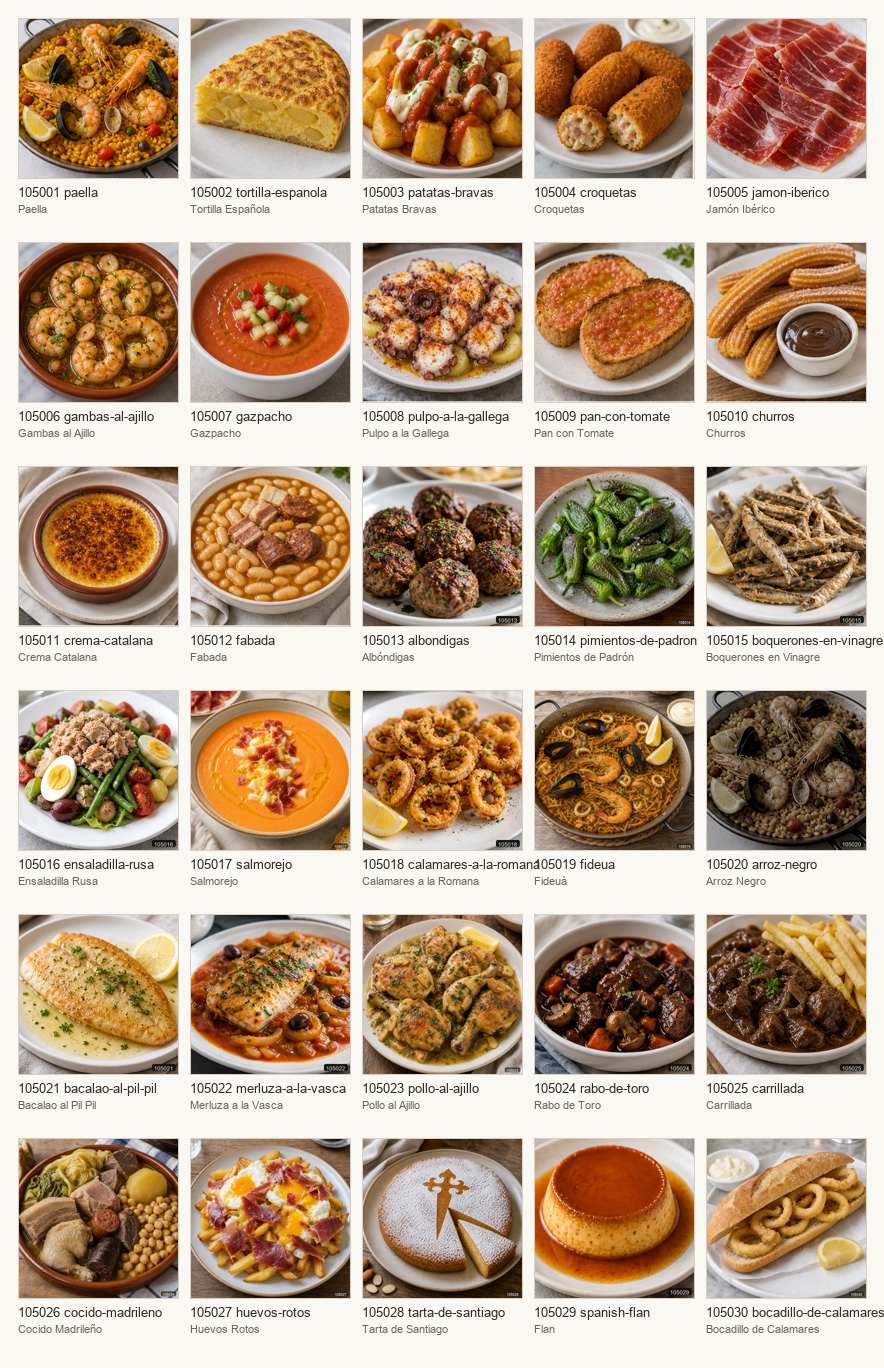
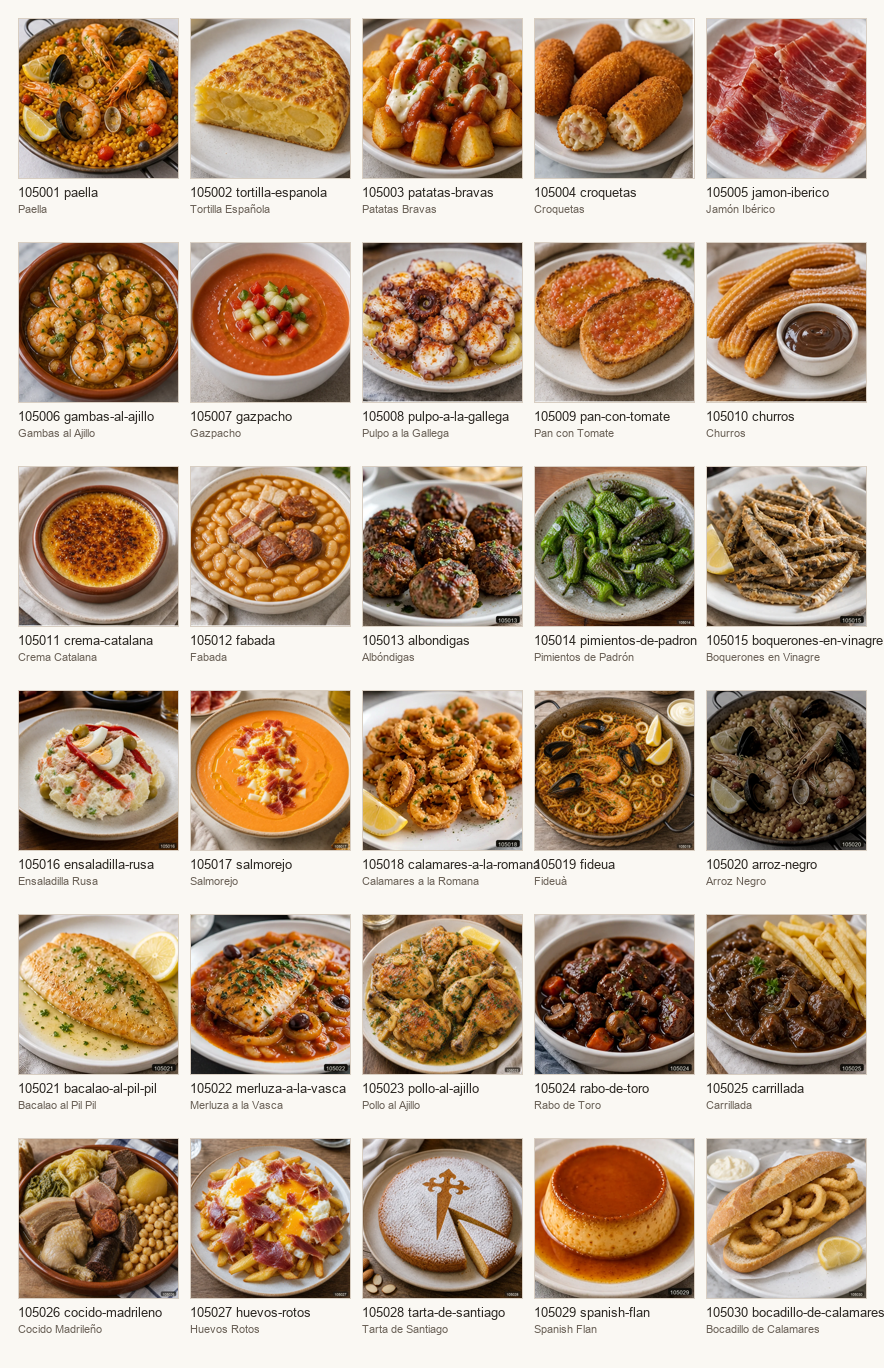
Replace Ensaladilla Rusa verified image

Changed region(s): [[0.0, 0.4912, 0.2138, 0.6447], [0.6109, 0.9518, 0.6414, 0.9825]]

diff --git a/data/internal/audit/image-overviews/batch-018.html b/data/internal/audit/image-overviews/batch-018.html
@@ -147,12 +147,12 @@
     <span>keep-verified | world-dishes.js</span>
   </figcaption>
 </figure>
-<figure class="card rebuild">
+<figure class="card keep-verified">
   <img src="../../../../assets/dishes/main/105016-ensaladilla-rusa.webp" loading="lazy" alt="ensaladilla-rusa">
   <figcaption>
     <strong>105016 ensaladilla-rusa</strong>
     <span>Ensaladilla Rusa</span>
-    <span>rebuild | world-dishes.js</span>
+    <span>keep-verified | world-dishes.js</span>
   </figcaption>
 </figure>
 <figure class="card keep-verified">

diff --git a/data/internal/index.js b/data/internal/index.js
@@ -266,6 +266,7 @@ const auditedGeneratedDishIds = new Set([
   "albondigas",
   "pimientos-de-padron",
   "boquerones-en-vinagre",
+  "ensaladilla-rusa",
   "salmorejo",
   "calamares-a-la-romana",
   "fideua",

diff --git a/DISHKAI_DISH_LIST.md b/DISHKAI_DISH_LIST.md
@@ -2,8 +2,8 @@
 
 Generated from data/internal/index.js after the verified database quarantine audit.
 
-- Total verified dishes: 588
-- Total aliases: 1830
+- Total verified dishes: 589
+- Total aliases: 1834
 - Total cuisines: 27
 - Generated layers remain quarantined except for rows restored through a documented human audit batch.
 
@@ -567,7 +567,7 @@ Generated from data/internal/index.js after the verified database quarantine aud
 30. 128028 - `riskrem` - Riskrem / 挪威奶油米布丁 / Riskrem
 31. 128029 - `aebleskiver` - Aebleskiver / 丹麦圆球小煎饼 / Æbleskiver
 
-## Spanish (spanish) - 29
+## Spanish (spanish) - 30
 
 1. 105001 - `paella` - Paella / 西班牙海鲜饭 / Paella
 2. 105002 - `tortilla-espanola` - Tortilla Española / 西班牙土豆蛋饼 / Tortilla española
@@ -584,20 +584,21 @@ Generated from data/internal/index.js after the verified database quarantine aud
 13. 105013 - `albondigas` - Albóndigas / 西班牙肉丸 / Albóndigas
 14. 105014 - `pimientos-de-padron` - Pimientos de Padrón / 帕德龙小青椒 / Pimientos de Padrón
 15. 105015 - `boquerones-en-vinagre` - Boquerones en Vinagre / 醋渍凤尾鱼 / Boquerones en vinagre
-16. 105017 - `salmorejo` - Salmorejo / 安达卢西亚浓番茄冷汤 / Salmorejo
-17. 105018 - `calamares-a-la-romana` - Calamares a la Romana / 西班牙炸鱿鱼圈 / Calamares a la romana
-18. 105019 - `fideua` - Fideuà / 西班牙海鲜短面 / Fideuà
-19. 105020 - `arroz-negro` - Arroz Negro / 西班牙墨鱼汁黑饭 / Arroz negro
-20. 105021 - `bacalao-al-pil-pil` - Bacalao al Pil Pil / 盐鳕鱼橄榄油乳化酱 / Bacalao al pil pil
-21. 105022 - `merluza-a-la-vasca` - Merluza a la Vasca / 巴斯克绿酱无须鳕 / Merluza a la vasca
-22. 105023 - `pollo-al-ajillo` - Pollo al Ajillo / 西班牙蒜香鸡 / Pollo al ajillo
-23. 105024 - `rabo-de-toro` - Rabo de Toro / 西班牙炖牛尾 / Rabo de toro
-24. 105025 - `carrillada` - Carrillada / 西班牙炖猪颊肉 / Carrillada
-25. 105026 - `cocido-madrileno` - Cocido Madrileño / 马德里鹰嘴豆炖肉 / Cocido madrileño
-26. 105027 - `huevos-rotos` - Huevos Rotos / 碎蛋薯条火腿 / Huevos rotos
-27. 105028 - `tarta-de-santiago` - Tarta de Santiago / 圣地亚哥杏仁蛋糕 / Tarta de Santiago
-28. 105029 - `spanish-flan` - Flan / 西班牙焦糖布丁 / Flan
-29. 105030 - `bocadillo-de-calamares` - Bocadillo de Calamares / 炸鱿鱼圈长棍三明治 / Bocadillo de calamares
+16. 105016 - `ensaladilla-rusa` - Ensaladilla Rusa / 西班牙俄式土豆沙拉 / Ensaladilla rusa
+17. 105017 - `salmorejo` - Salmorejo / 安达卢西亚浓番茄冷汤 / Salmorejo
+18. 105018 - `calamares-a-la-romana` - Calamares a la Romana / 西班牙炸鱿鱼圈 / Calamares a la romana
+19. 105019 - `fideua` - Fideuà / 西班牙海鲜短面 / Fideuà
+20. 105020 - `arroz-negro` - Arroz Negro / 西班牙墨鱼汁黑饭 / Arroz negro
+21. 105021 - `bacalao-al-pil-pil` - Bacalao al Pil Pil / 盐鳕鱼橄榄油乳化酱 / Bacalao al pil pil
+22. 105022 - `merluza-a-la-vasca` - Merluza a la Vasca / 巴斯克绿酱无须鳕 / Merluza a la vasca
+23. 105023 - `pollo-al-ajillo` - Pollo al Ajillo / 西班牙蒜香鸡 / Pollo al ajillo
+24. 105024 - `rabo-de-toro` - Rabo de Toro / 西班牙炖牛尾 / Rabo de toro
+25. 105025 - `carrillada` - Carrillada / 西班牙炖猪颊肉 / Carrillada
+26. 105026 - `cocido-madrileno` - Cocido Madrileño / 马德里鹰嘴豆炖肉 / Cocido madrileño
+27. 105027 - `huevos-rotos` - Huevos Rotos / 碎蛋薯条火腿 / Huevos rotos
+28. 105028 - `tarta-de-santiago` - Tarta de Santiago / 圣地亚哥杏仁蛋糕 / Tarta de Santiago
+29. 105029 - `spanish-flan` - Flan / 西班牙焦糖布丁 / Flan
+30. 105030 - `bocadillo-de-calamares` - Bocadillo de Calamares / 炸鱿鱼圈长棍三明治 / Bocadillo de calamares
 
 ## Surinamese (surinamese) - 11
 

diff --git a/DISHKAI_FULL_AUDIT_REPORT.md b/DISHKAI_FULL_AUDIT_REPORT.md
@@ -5,23 +5,23 @@ Generated: 2026-06-20
 ## Executive summary
 
 - Raw dish records reviewed from source files: 1110
-- Current verified export after quarantine: 588 dishes, 1830 aliases
-- Generated high-risk dishes quarantined from verified export: 496
-- Verified export rows with automated keep-verified status: 588
+- Current verified export after quarantine: 589 dishes, 1834 aliases
+- Generated high-risk dishes quarantined from verified export: 495
+- Verified export rows with automated keep-verified status: 589
 - Verified export rows requiring metadata/image follow-up: 0
 
 The audit found systemic template language, low confidence values, repeated compositions, and placeholder localized text in the generated expansion layers. Those layers remain quarantined from `metadata.dishes` and `metadata.dishAliases` except for rows restored through documented review batches of at most 30 dishes.
 
 ## Status counts
 
-- keep-verified: 588
-- rebuild: 496
+- keep-verified: 589
+- rebuild: 495
 - remove: 26
 
 ## Risk counts
 
-- high: 522
-- low: 588
+- high: 521
+- low: 589
 
 ## Source counts
 
@@ -43,20 +43,20 @@ The audit found systemic template language, low confidence values, repeated comp
 
 ## Image asset check
 
-- quarantinedOrUnreferencedMainAssets: 522
-- quarantinedOrUnreferencedThumbAssets: 522
+- quarantinedOrUnreferencedMainAssets: 521
+- quarantinedOrUnreferencedThumbAssets: 521
 - totalMainAssets: 1110
 - totalThumbAssets: 1110
-- verifiedMainAssetsReferenced: 588
-- verifiedThumbAssetsReferenced: 588
+- verifiedMainAssetsReferenced: 589
+- verifiedThumbAssetsReferenced: 589
 
 Quarantined/unreferenced assets were intentionally left in place. They are not deleted because they may be reused only after semantic image review and metadata rebuild.
 
 ## Alias audit summary
 
 - Raw aliases reviewed: 3083
-- Aliases in verified export: 1830
-- Alias rows flagged for review: 1117
+- Aliases in verified export: 1834
+- Alias rows flagged for review: 1113
 
 | alias | dishId | sourceFile | confidence | status | notes |
 | --- | --- | --- | --- | --- | --- |
@@ -920,7 +920,7 @@ Each overview page contains at most 30 dishes and uses small thumbnails from the
 | albondigas | 105013 | spanish | data/internal/dishes/world-dishes.js | /assets/dishes/main/105013-albondigas.webp | low | keep-verified | No automated metadata/asset flags. Visual semantics still need human spot-check. | retain in verified export; schedule visual spot-check |
 | pimientos-de-padron | 105014 | spanish | data/internal/dishes/world-dishes.js | /assets/dishes/main/105014-pimientos-de-padron.webp | low | keep-verified | No automated metadata/asset flags. Visual semantics still need human spot-check. | retain in verified export; schedule visual spot-check |
 | boquerones-en-vinagre | 105015 | spanish | data/internal/dishes/world-dishes.js | /assets/dishes/main/105015-boquerones-en-vinagre.webp | low | keep-verified | No automated metadata/asset flags. Visual semantics still need human spot-check. | retain in verified export; schedule visual spot-check |
-| ensaladilla-rusa | 105016 | spanish | data/internal/dishes/world-dishes.js | /assets/dishes/main/105016-ensaladilla-rusa.webp | high | rebuild | source layer is quarantined/untrusted | quarantine from verified export; rebuild in <=30 dish batch |
+| ensaladilla-rusa | 105016 | spanish | data/internal/dishes/world-dishes.js | /assets/dishes/main/105016-ensaladilla-rusa.webp | low | keep-verified | No automated metadata/asset flags. Visual semantics still need human spot-check. | retain in verified export; schedule visual spot-check |
 | salmorejo | 105017 | spanish | data/internal/dishes/world-dishes.js | /assets/dishes/main/105017-salmorejo.webp | low | keep-verified | No automated metadata/asset flags. Visual semantics still need human spot-check. | retain in verified export; schedule visual spot-check |
 | calamares-a-la-romana | 105018 | spanish | data/internal/dishes/world-dishes.js | /assets/dishes/main/105018-calamares-a-la-romana.webp | low | keep-verified | No automated metadata/asset flags. Visual semantics still need human spot-check. | retain in verified export; schedule visual spot-check |
 | fideua | 105019 | spanish | data/internal/dishes/world-dishes.js | /assets/dishes/main/105019-fideua.webp | low | keep-verified | No automated metadata/asset flags. Visual semantics still need human spot-check. | retain in verified export; schedule visual spot-check |

diff --git a/data/internal/audit/verified-image-category-rereview-2026-06-20.md b/data/internal/audit/verified-image-category-rereview-2026-06-20.md
@@ -4,7 +4,7 @@ Scope: current verified export after reverting schematic image batches.
 
 Reviewed:
 
-- 588 verified dishes after correction
+- 588 verified dishes after the initial quarantine correction; 589 after the `ensaladilla-rusa` replacement was accepted
 - 27 cuisines
 - 20 temporary verified-image contact sheets covering the pre-correction 589-dish export
 - Generated audit image overviews under `data/internal/audit/image-overviews/`
@@ -14,17 +14,17 @@ Image findings:
 
 | dishId | metadataCode | cuisineId | decision | reason |
 | --- | --- | --- | --- | --- |
-| ensaladilla-rusa | 105016 | spanish | moved to rebuild / replace-image | Existing image reads closer to a tuna and green-bean composed salad than Spanish creamy potato-mayonnaise salad. It should not stay verified until a replacement-quality image is available. |
+| ensaladilla-rusa | 105016 | spanish | replaced and restored | Existing image read closer to a tuna and green-bean composed salad than Spanish creamy potato-mayonnaise salad. It was first moved to rebuild / replace-image, then restored only after a replacement image clearly showed creamy potato-mayonnaise salad with tuna, egg, peas, olives, and red pepper. |
 
 Category and cuisine findings:
 
 - No broad cuisine/category reassignment was made in this pass.
 - `chicken-tikka-masala-british` remains British-Irish because it represents the British curry-house dish, not the base South Asian dish.
 - Dutch-Indonesian dishes already in verified remain Dutch where the metadata explicitly describes Dutch-Indonesian restaurant usage.
-- Spanish verified coverage is temporarily 29/30 after removing `ensaladilla-rusa`; the target should be restored only with a clearly matching replacement image.
+- Spanish verified coverage is restored to 30/30 after replacing `ensaladilla-rusa`.
 
 Current result:
 
-- Verified export: 588 dishes / 1830 aliases
-- High-risk quarantine: 496 rebuild / 26 remove
-- Verified image asset check: 588 checked / 0 failures
+- Verified export after replacement: 589 dishes / 1834 aliases
+- High-risk quarantine after replacement: 495 rebuild / 26 remove
+- Verified image asset check after replacement: 589 checked / 0 failures

diff --git a/data/internal/COVERAGE_ROADMAP.md b/data/internal/COVERAGE_ROADMAP.md
@@ -8,16 +8,16 @@ Verified metadata is the source of truth. It should be curated for high-frequenc
 
 Current verified starter database:
 
-- 588 verified dishes
+- 589 verified dishes
 - 27 cuisines
-- 1830 verified aliases
+- 1834 verified aliases
 
 Recent depth progress:
 
 - Generated expansion layers were quarantined after strict audit; verified counts only reflect rows rebuilt through manual <=30-dish batches.
-- Registered European cuisines remain at least 30 verified dishes except Spanish, which is temporarily 29 after the `ensaladilla-rusa` image re-review.
+- Registered European cuisines remain at least 30 verified dishes after the `ensaladilla-rusa` replacement restored Spanish to 30.
 - World Layer Batches 018-021 and World Truth Batches 022-023 brought verified coverage to 589 dishes / 1834 aliases.
-- A 2026-06-20 image re-review removed `ensaladilla-rusa` from verified because its image was misleading; current verified coverage is 588 dishes / 1830 aliases until it receives a replacement-quality image.
+- A 2026-06-20 image re-review removed `ensaladilla-rusa` from verified because its image was misleading; a replacement-quality image restored current verified coverage to 589 dishes / 1834 aliases.
 - Global Truth Batches 024-033 were reverted because their abstract deterministic schematic images were too crude to identify dishes at a glance. Those rows need replacement-quality, clearly recognizable images before they can return to verified.
 
 Next verified coverage targets:

diff --git a/data/internal/audit/rebuild-batches/spanish-batch-010.md b/data/internal/audit/rebuild-batches/spanish-batch-010.md
@@ -10,12 +10,12 @@ Initial candidate overview: [spanish-batch-010-candidates-images.png](spanish-ba
 
 Raw generated source copies: [spanish-batch-010-image-sources](spanish-batch-010-image-sources)
 
-- Result: 29 keep-verified after 2026-06-20 image re-review; `ensaladilla-rusa` was moved back to rebuild/replace-image
+- Result: 30 keep-verified after 2026-06-20 image re-review and replacement of `ensaladilla-rusa`
 - Metadata action: all 30 rows were fully rewritten and assigned `confidenceTag: audited-spanish-batch-010` with `metadataConfidence: 0.82`
-- Image action: 22 existing images were accepted after contact-sheet review; 8 mismatched or ambiguous images were replaced with reviewed WebP main/thumb assets and exact metadataCode badges
+- Image action: 21 existing images were accepted after contact-sheet review; 9 mismatched, ambiguous, or re-review rejected images were replaced with reviewed WebP main/thumb assets and exact metadataCode badges
 - Alias action: removed or narrowed generic aliases such as `russian salad`, `fried calamari`, `black rice`, `garlic chicken`, `pork cheek`, `caramel custard`, and `squid sandwich`
 - Quality decision: only the Spanish rows with image-confirmed, dish-specific visual references stay restored to verified; the rest of `world-dishes.js` remains quarantined unless separately audited
-- Coverage result: Spanish verified coverage is 29/30 until `ensaladilla-rusa` receives a replacement-quality image
+- Coverage result: Spanish verified coverage is restored to 30/30
 
 | dishId | metadataCode | cuisineId | metadataConfidence | auditStatus | imageStatus | notes |
 | --- | --- | --- | --- | --- | --- | --- |
@@ -34,7 +34,7 @@ Raw generated source copies: [spanish-batch-010-image-sources](spanish-batch-010
 | albondigas | 105013 | spanish | 0.82 | keep-verified | accepted-existing | Existing image clearly shows Spanish-style meatballs. Metadata fully rebuilt from generated candidate source. |
 | pimientos-de-padron | 105014 | spanish | 0.82 | keep-verified | accepted-replacement | Previous image looked like generic greens; replacement clearly shows blistered Padrón peppers with salt. Metadata fully rebuilt from generated candidate source. |
 | boquerones-en-vinagre | 105015 | spanish | 0.82 | keep-verified | accepted-existing | Existing image clearly shows small marinated anchovies with lemon. Metadata fully rebuilt from generated candidate source. |
-| ensaladilla-rusa | 105016 | spanish | 0.82 | replace-image | rejected-on-rereview | 2026-06-20 verified image re-review found the existing image reads closer to a tuna/green-bean composed salad than Spanish mayo potato salad, so it was removed from verified until a replacement-quality image is available. Generic Russian salad alias remains outside verified. |
+| ensaladilla-rusa | 105016 | spanish | 0.82 | keep-verified | accepted-replacement | 2026-06-20 verified image re-review rejected the previous tuna/green-bean composed-salad image; replacement clearly shows creamy Spanish potato-mayonnaise salad with tuna, egg, peas, olives, and red pepper. Generic Russian salad alias remains outside verified. |
 | salmorejo | 105017 | spanish | 0.82 | keep-verified | accepted-replacement | Previous image was too close to gazpacho and lacked egg/ham garnish; replacement clearly shows thick salmorejo with toppings. Metadata fully rebuilt from generated candidate source. |
 | calamares-a-la-romana | 105018 | spanish | 0.82 | keep-verified | accepted-existing | Existing image clearly shows battered fried squid rings. Generic fried calamari aliases were narrowed to avoid conflict with Italian calamari fritti. Metadata fully rebuilt from generated candidate source. |
 | fideua | 105019 | spanish | 0.82 | keep-verified | accepted-replacement | Previous image looked like rice paella; replacement shows short noodles with seafood. Metadata fully rebuilt from generated candidate source. |

diff --git a/DISHKAI_HIGH_RISK_DISHES.md b/DISHKAI_HIGH_RISK_DISHES.md
@@ -2,7 +2,7 @@
 
 This list contains dishes that should not be treated as trusted verified metadata until their listed action is complete.
 
-- Total high-risk or non-keep rows: 522
+- Total high-risk or non-keep rows: 521
 
 ## By source
 
@@ -10,7 +10,7 @@ This list contains dishes that should not be treated as trusted verified metadat
 - data/internal/dishes/europe-depth-dishes.js: 254
 - data/internal/dishes/global-depth-dishes.js: 239
 - data/internal/dishes/greek-depth-dishes.js: 15
-- data/internal/dishes/world-dishes.js: 3
+- data/internal/dishes/world-dishes.js: 2
 
 ## Rows
 
@@ -296,7 +296,6 @@ This list contains dishes that should not be treated as trusted verified metadat
 | silltallrik | 128058 | scandinavian | data/internal/dishes/europe-depth-dishes.js | high | rebuild | source layer is quarantined/untrusted; metadataConfidence 0.72 below 0.78; template-dishkai-explainer; template-common-menu-item; template-coverage-fill; template-order-verdict; template-europe-depth; Chinese localized field contains English placeholder words; composition pattern reused 22 times | quarantine from verified export; rebuild in <=30 dish batch |
 | gravlax-toast | 128059 | scandinavian | data/internal/dishes/europe-depth-dishes.js | high | rebuild | source layer is quarantined/untrusted; metadataConfidence 0.72 below 0.78; template-dishkai-explainer; template-common-menu-item; template-coverage-fill; template-order-verdict; template-europe-depth; Chinese localized field contains English placeholder words; composition pattern reused 22 times | quarantine from verified export; rebuild in <=30 dish batch |
 | rabarberpaj | 128060 | scandinavian | data/internal/dishes/europe-depth-dishes.js | high | rebuild | source layer is quarantined/untrusted; metadataConfidence 0.72 below 0.78; template-dishkai-explainer; template-common-menu-item; template-coverage-fill; template-order-verdict; template-europe-depth; composition pattern reused 63 times | quarantine from verified export; rebuild in <=30 dish batch |
-| ensaladilla-rusa | 105016 | spanish | data/internal/dishes/world-dishes.js | high | rebuild | source layer is quarantined/untrusted | quarantine from verified export; rebuild in <=30 dish batch |
 | cataplana | 125011 | portuguese | data/internal/dishes/world-dishes.js | high | rebuild | source layer is quarantined/untrusted; metadataConfidence 0.72 below 0.78; template-coverage-fill; template-order-verdict | quarantine from verified export; rebuild in <=30 dish batch |
 | pom | 126002 | surinamese | data/internal/dishes/world-dishes.js | high | rebuild | source layer is quarantined/untrusted; metadataConfidence 0.72 below 0.78; template-coverage-fill; template-order-verdict; Chinese localized field contains English placeholder words | quarantine from verified export; rebuild in <=30 dish batch |
 | lebkuchen | 106028 | german | data/internal/dishes/global-depth-dishes.js | high | rebuild | source layer is quarantined/untrusted; metadataConfidence 0.74 below 0.78; template-dishkai-explainer; template-common-menu-item; template-coverage-fill; template-order-verdict; composition pattern reused 34 times | quarantine from verified export; rebuild in <=30 dish batch |

diff --git a/DISHKAI_MEMORY.md b/DISHKAI_MEMORY.md
@@ -259,3 +259,4 @@ Codex must still ask before destructive operations, editing secrets, changing Cl
 - Verified database audit World Truth Batches 022-023 attempted a 200-dish continuation but accepted only 48 rows after content, duplicate, alias, and image review. `cataplana` stayed quarantined because it overlaps the already verified `cataplana-de-marisco`, and `pom` stayed quarantined because the current image reads as roast chicken/potatoes rather than Pom casserole. The accepted rows add Surinamese 11, Ethiopian 12, Scandinavian 1, Peruvian 12, and Brazilian 12 verified dishes, bringing the verified export to 589 dishes / 1834 aliases and quarantine to 495 rebuild + 26 remove. Future 200-scale validation requires replacement-quality images for the rejected global-depth/europe-depth candidates before they can enter verified.
 - Corrective note: do not use abstract deterministic schematic/cartoon plate renders as verified dish images. Leo flagged these as too crude to identify dishes at a glance, so the Global Truth Batches 024-033 verified promotions were reverted. Future rebuilds need restaurant-realistic or otherwise clearly recognizable dish images that pass manual visual review, not merely code-matched diagrams.
 - 2026-06-20 verified image re-review found `ensaladilla-rusa` had a misleading visual reference that reads closer to a tuna/green-bean composed salad than Spanish mayo potato salad. It was removed from `auditedGeneratedDishIds` and returned to rebuild/replace-image status, reducing the verified export to 588 dishes / 1830 aliases. Do not restore it without a replacement-quality image that clearly shows the creamy potato salad form.
+- 2026-06-20 follow-up replaced `ensaladilla-rusa` with a restaurant-realistic creamy potato-mayonnaise salad image showing tuna, egg, peas, olives, and red pepper, then restored it to `auditedGeneratedDishIds`. Spanish is back to 30 verified dishes and the verified export is back to 589 dishes / 1834 aliases. Keep this as the standard for correcting bad verified images: remove first, replace only with a visibly dish-specific image, then restore.

diff --git a/data/internal/DISH_IMAGE_CODE_LIST.md b/data/internal/DISH_IMAGE_CODE_LIST.md
@@ -152,6 +152,7 @@ Generated from data/internal/index.js after the verified database quarantine aud
 | 105013 | albondigas | spanish | Albóndigas | 西班牙肉丸 | /assets/dishes/main/105013-albondigas.webp | /assets/dishes/thumb/105013-albondigas.webp | verified export / needs visual spot-check | Albóndigas visual reference, spanish restaurant dish, code 105013. |
 | 105014 | pimientos-de-padron | spanish | Pimientos de Padrón | 帕德龙小青椒 | /assets/dishes/main/105014-pimientos-de-padron.webp | /assets/dishes/thumb/105014-pimientos-de-padron.webp | verified export / needs visual spot-check | Pimientos de Padrón visual reference, spanish restaurant dish, code 105014. |
 | 105015 | boquerones-en-vinagre | spanish | Boquerones en Vinagre | 醋渍凤尾鱼 | /assets/dishes/main/105015-boquerones-en-vinagre.webp | /assets/dishes/thumb/105015-boquerones-en-vinagre.webp | verified export / needs visual spot-check | Boquerones en Vinagre visual reference, spanish restaurant dish, code 105015. |
+| 105016 | ensaladilla-rusa | spanish | Ensaladilla Rusa | 西班牙俄式土豆沙拉 | /assets/dishes/main/105016-ensaladilla-rusa.webp | /assets/dishes/thumb/105016-ensaladilla-rusa.webp | verified export / needs visual spot-check | Ensaladilla Rusa visual reference, spanish restaurant dish, code 105016. |
 | 105017 | salmorejo | spanish | Salmorejo | 安达卢西亚浓番茄冷汤 | /assets/dishes/main/105017-salmorejo.webp | /assets/dishes/thumb/105017-salmorejo.webp | verified export / needs visual spot-check | Salmorejo visual reference, spanish restaurant dish, code 105017. |
 | 105018 | calamares-a-la-romana | spanish | Calamares a la Romana | 西班牙炸鱿鱼圈 | /assets/dishes/main/105018-calamares-a-la-romana.webp | /assets/dishes/thumb/105018-calamares-a-la-romana.webp | verified export / needs visual spot-check | Calamares a la Romana visual reference, spanish restaurant dish, code 105018. |
 | 105019 | fideua | spanish | Fideuà | 西班牙海鲜短面 | /assets/dishes/main/105019-fideua.webp | /assets/dishes/thumb/105019-fideua.webp | verified export / needs visual spot-check | Fideuà visual reference, spanish restaurant dish, code 105019. |